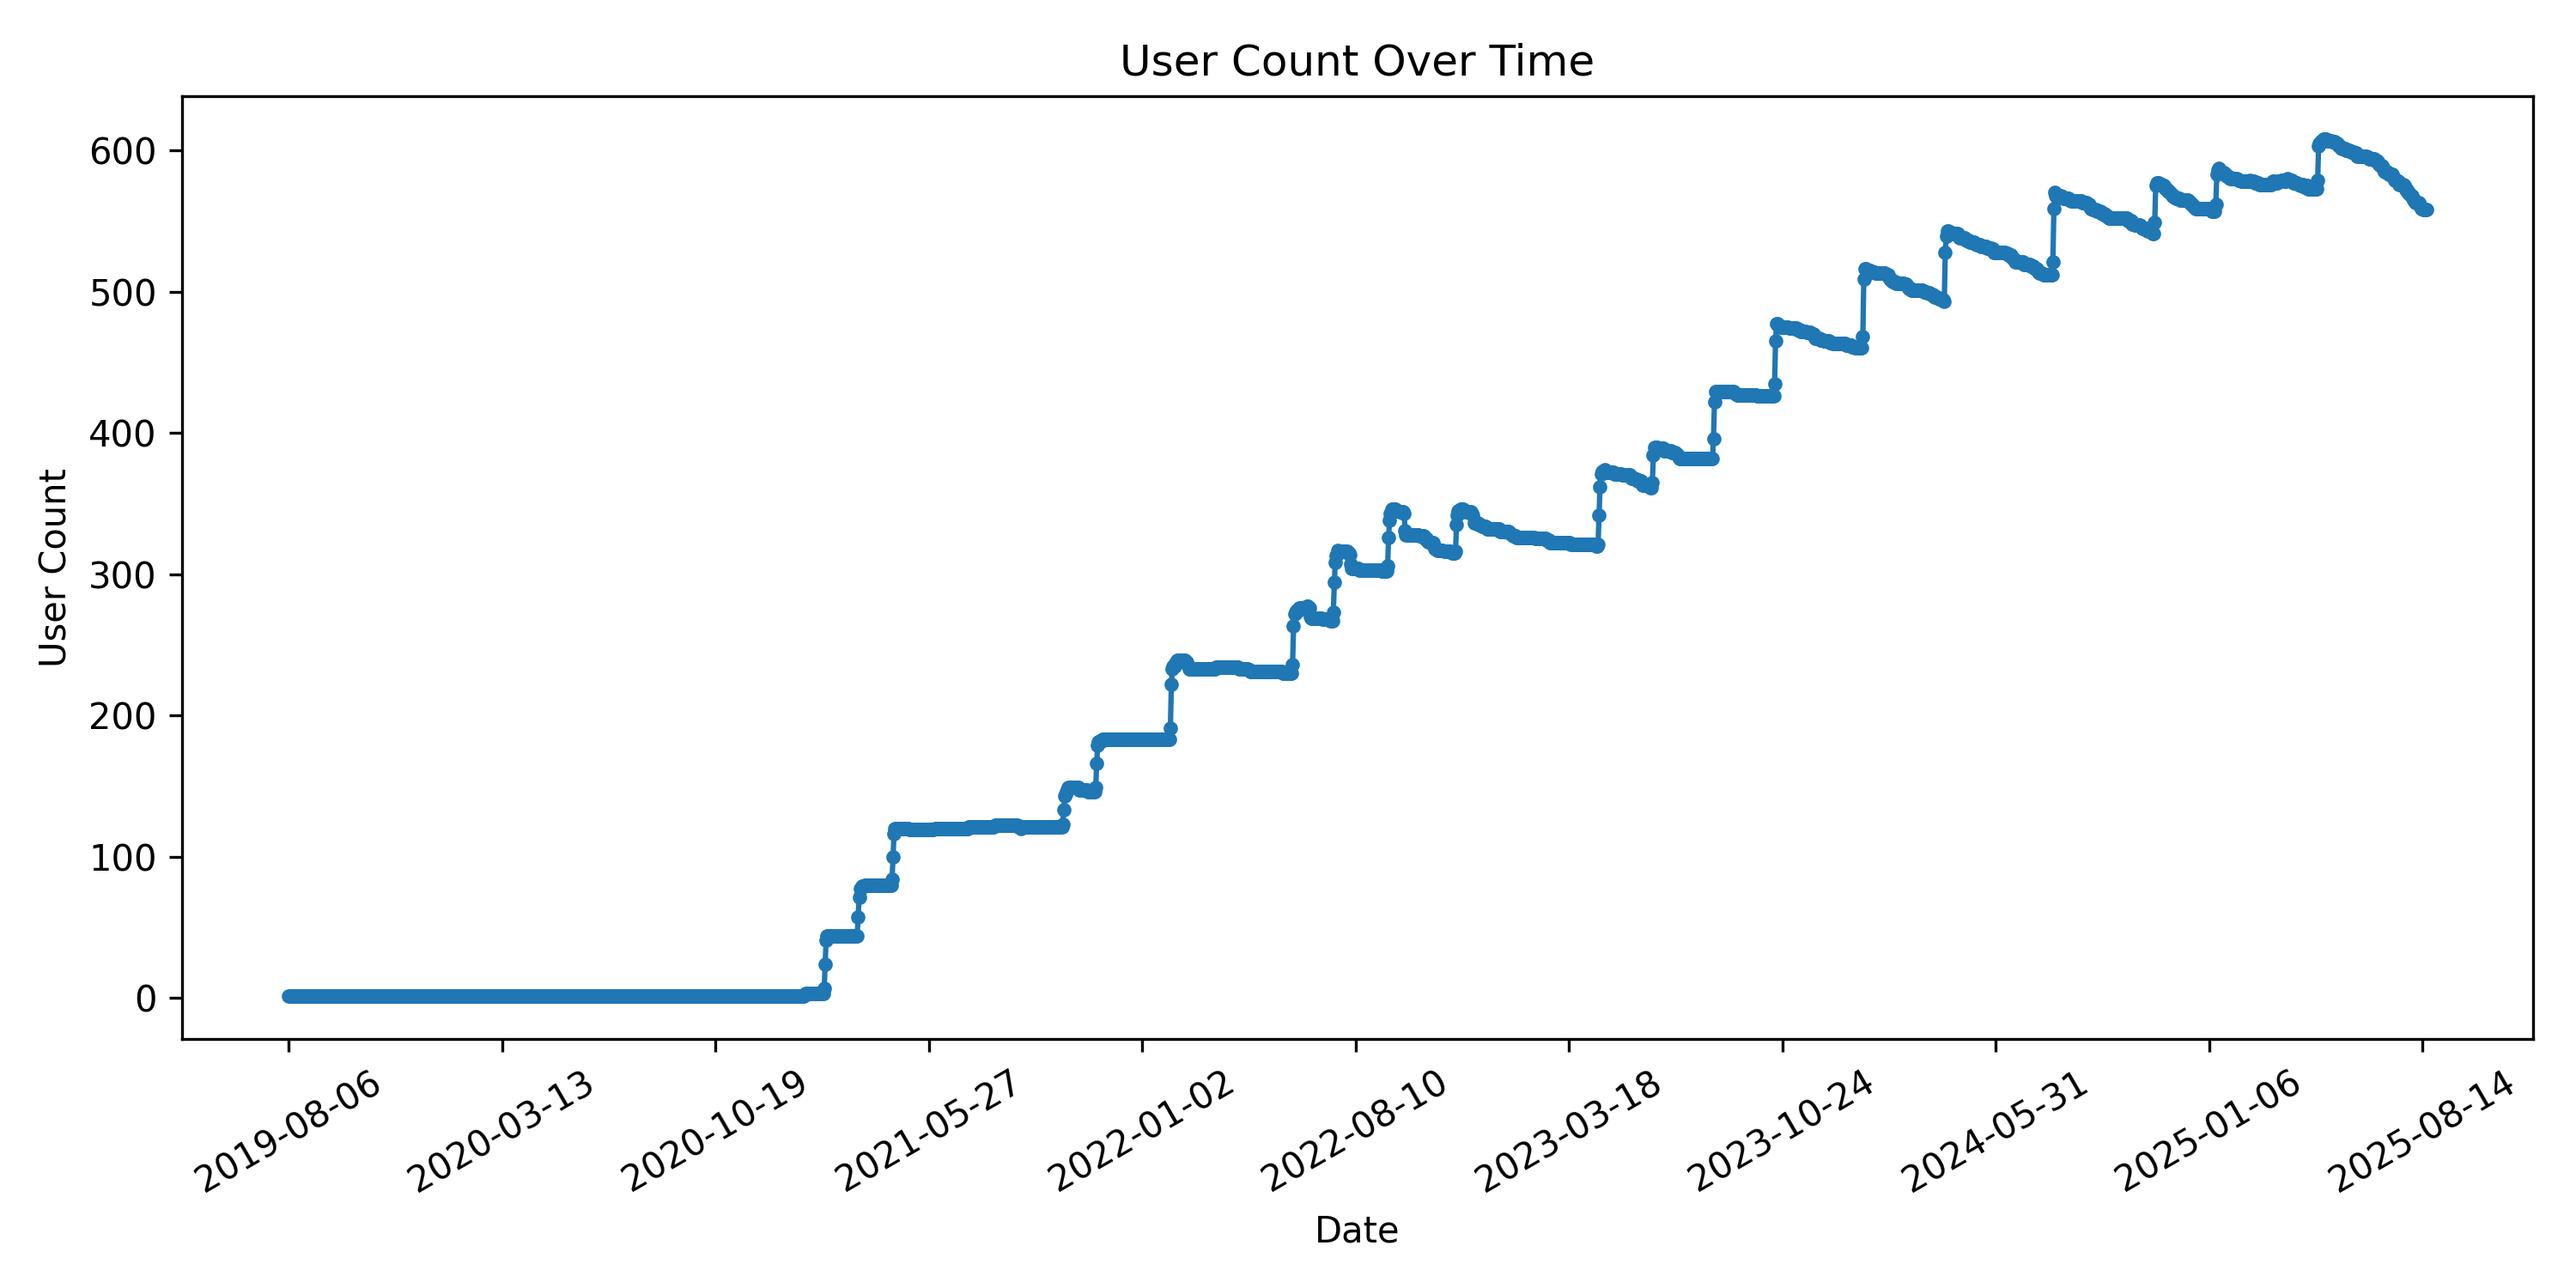
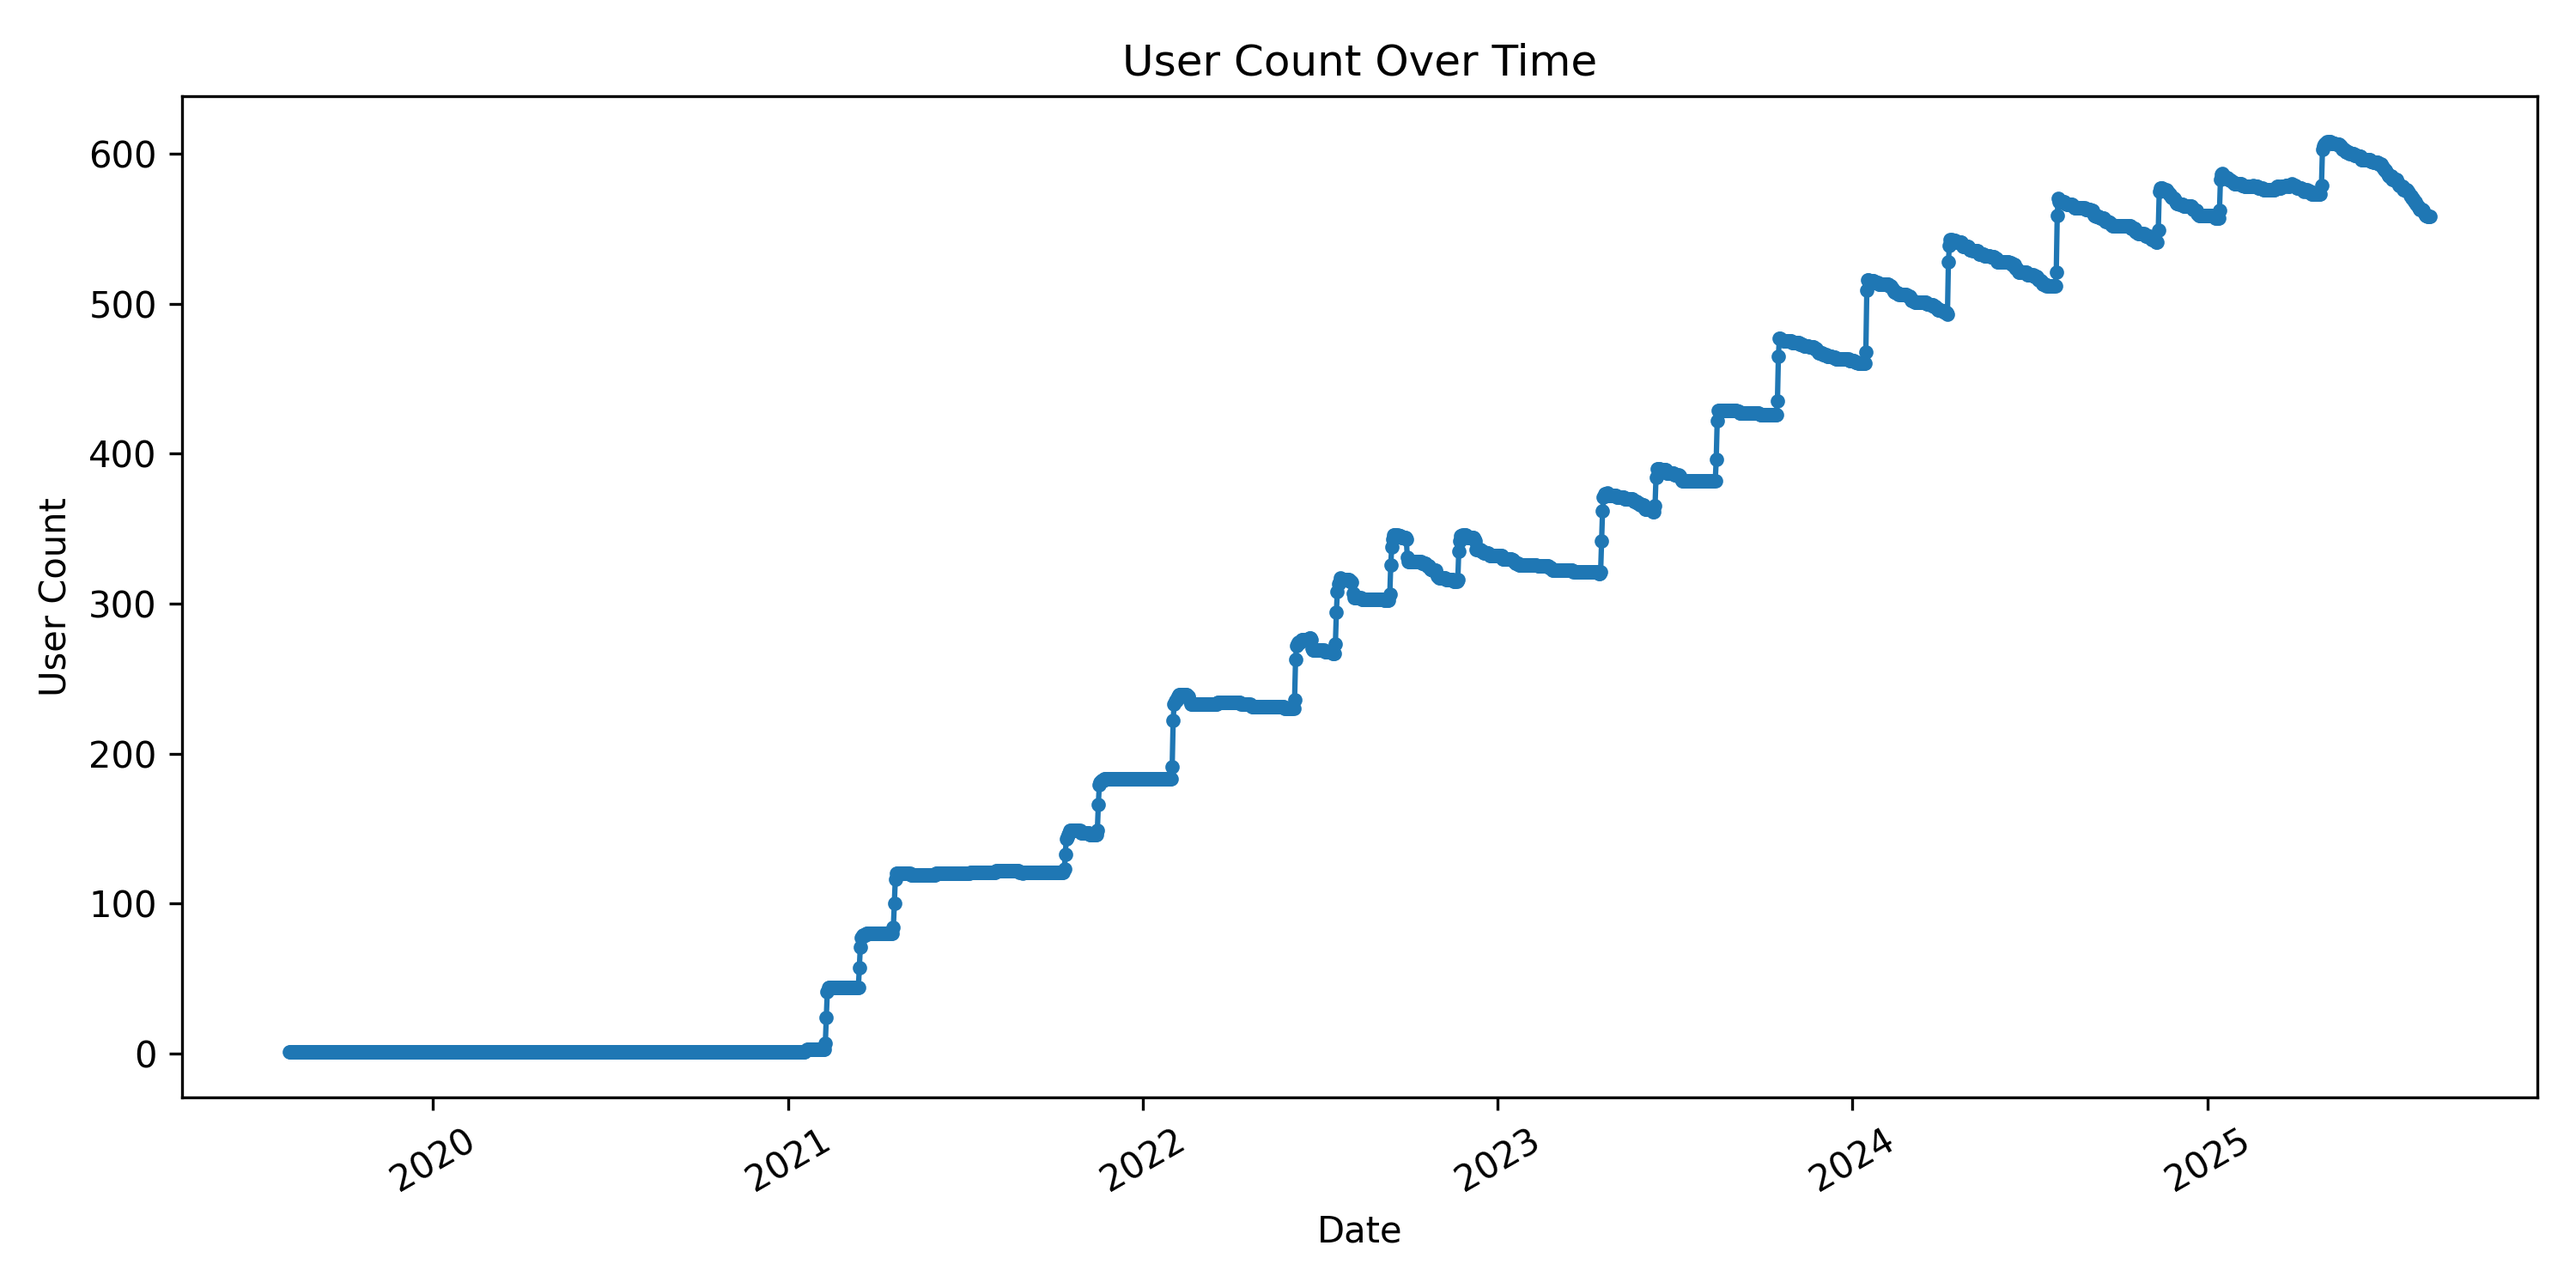
Restructure, add more plots to README.md;

diff --git a/create_analysis_and_documentation.py b/create_analysis_and_documentation.py
@@ -1,24 +1,7 @@
+from collections import defaultdict
 import json
-import matplotlib.pyplot as plt
 from datetime import datetime
-
-def basic_plot(data_list, title, x_axis, y_axis, save_name):
-    dates = [d for d, _ in data_list]
-    counts = [c for _, c in data_list]
-    if len(dates) > 1:
-        dates = dates[:-1]
-        counts = counts[:-1]
-    spots = 30
-    if len(counts) != 0:
-        spots = int(len(counts) / 10)
-    plt.figure(figsize=(10, 5))
-    plt.plot(dates, counts, marker=".")
-    plt.xticks(dates[::spots], rotation=30)
-    plt.title(title)
-    plt.xlabel(x_axis)
-    plt.ylabel(y_axis)
-    plt.tight_layout()
-    plt.savefig(f"img/{save_name}", dpi=300)
+from tools.plot import basic_plot, multiplot
 
 
 with open("data/campus.json", "r") as f:
@@ -31,7 +14,7 @@ total_active_users_per_date_sorted = sorted(
     key=lambda x: datetime.fromisoformat(x[0])
 )
 
-basic_plot(data_map=total_active_users_per_date_sorted, x_axis="Date", y_axis="User Count", title="User Count Over Time", save_name="user_over_time_count")
+basic_plot(data_list=total_active_users_per_date_sorted, x_axis="Date", y_axis="User Count", title="User Count Over Time", save_name="user_over_time_count")
 
 evals_per_day_map = data.get("evals_per_day_map", {})
 
@@ -40,7 +23,7 @@ evals_per_day_list_sorted = sorted(
     key=lambda x: datetime.fromisoformat(x[0])
 )
 
-basic_plot(data_map=evals_per_day_list_sorted, x_axis="Date", y_axis="Eval Count", title="Evals per day map", save_name="evals_per_day_count")
+basic_plot(data_list=evals_per_day_list_sorted, x_axis="Date", y_axis="Eval Count", title="Evals per day map", save_name="evals_per_day_count")
 
 
 not_active_points_map = data.get("not_active_points_map", {})
@@ -56,4 +39,44 @@ for key, value in not_active_points_map_sorted:
     not_active_points_total += value
     not_active_points_list_total.append((key, not_active_points_total))
 
-basic_plot(data_map=not_active_points_list_total, x_axis="Date", y_axis="Points", title="Points that are not active in the system", save_name="non_active_points")
+basic_plot(data_list=not_active_points_list_total, x_axis="Date", y_axis="Points", title="Points that are not active in the system", save_name="non_active_points")
+
+
+get_total_active_points = data.get("get_total_active_points", {})
+evaluation_points_date_map = data.get("evaluation_points_date_map")
+evaluation_points_date_list = sorted(
+    evaluation_points_date_map.items(),
+    key=lambda x: datetime.fromisoformat(x[0])
+)
+
+evaluation_points_date_list_precise = []
+for key, value in evaluation_points_date_list[::-1]:
+    evaluation_points_date_list_precise.append((key, get_total_active_points))
+    get_total_active_points -= value
+
+evaluation_points_date_list_precise.sort(key=lambda x: x[0])
+
+basic_plot(data_list=evaluation_points_date_list_precise, x_axis="Date", y_axis="Points per day", save_name="points_over_time", title="Evaluation Points In the System Over Time")
+
+data_lists=[
+    (evaluation_points_date_list_precise, "Total Active Points"),
+    (not_active_points_list_total, "Non Active Points"),
+]
+
+multiplot(data_lists, x_axis="Date", y_axis="Points per day", save_name="points_over_time_vs_non_active_points", title="Total vs Non Active Points")
+
+
+monthly_evals_data = defaultdict(int)
+for date_str, count in evals_per_day_map.items():
+    dt = datetime.fromisoformat(date_str)
+    key = dt.strftime("%Y-%m-01")
+    monthly_evals_data[key] += count
+
+evals_per_month_list_sorted = sorted(
+    monthly_evals_data.items(),
+    key=lambda x: datetime.strptime(x[0], "%Y-%m-%d")
+)
+
+basic_plot(data_list=evals_per_month_list_sorted, x_axis="Month", y_axis="Eval Count", title="Evals per Month", save_name="evals_per_month_count")
+
+

diff --git a/tools/plot.py b/tools/plot.py
@@ -1,0 +1,61 @@
+import matplotlib.pyplot as plt
+import matplotlib.dates as mdates
+from datetime import datetime
+
+def locator_and_formater(span):
+    if span <= 31:
+        locator = mdates.DayLocator(interval=1)
+        formatter = mdates.DateFormatter("%m-%d")
+    elif span <= 365:
+        locator = mdates.MonthLocator(interval=1)
+        formatter = mdates.DateFormatter("%Y-%m")
+    else:
+        locator = mdates.YearLocator()
+        formatter = mdates.DateFormatter("%Y")
+    return locator, formatter
+
+
+def basic_plot(data_list, title="default", x_axis="default", y_axis="default", save_name="default"):
+    dates = [datetime.fromisoformat(d) for d, _ in data_list]
+    counts = [c for _, c in data_list]
+    if len(dates) > 1:
+        dates = dates[:-1]
+        counts = counts[:-1]
+    span = (max(dates) - min(dates)).days
+    plt.figure(figsize=(10, 5))
+    plt.plot(dates, counts, marker=".")
+    ax = plt.gca()
+    locator, formatter = locator_and_formater(span=span)
+    ax.xaxis.set_major_locator(locator)
+    ax.xaxis.set_major_formatter(formatter)
+    plt.xticks(rotation=30)
+    plt.title(title)
+    plt.xlabel(x_axis)
+    plt.ylabel(y_axis)
+    plt.tight_layout()
+    plt.savefig(f"img/{save_name}.png", dpi=300)
+
+
+def multiplot(datasets: list, title="default", x_axis="default", y_axis="default", save_name="default"):
+    plt.figure(figsize=(10, 5))
+    all_dates = []
+    for data_list, label in datasets:
+        dates = [datetime.fromisoformat(d) for d, _ in data_list]
+        counts = [c for _, c in data_list]
+        if len(dates) > 1:
+            dates = dates[:-1]
+            counts = counts[:-1]
+        all_dates.extend(dates)
+        plt.plot(dates, counts, label=label, marker=".")
+    span = (max(all_dates) - min(all_dates)).days
+    locator, formatter = locator_and_formater(span=span)
+    ax = plt.gca()
+    ax.xaxis.set_major_locator(locator)
+    ax.xaxis.set_major_formatter(formatter)
+    plt.xticks(rotation=30)
+    plt.title(title)
+    plt.xlabel(x_axis)
+    plt.ylabel(y_axis)
+    plt.legend()
+    plt.tight_layout()
+    plt.savefig(f"img/{save_name}.png", dpi=300)

diff --git a/README.md b/README.md
@@ -1,9 +1,20 @@
 Repo analysis 42 evaluation point exchange over time!
 
+![Non Active Points Growth Over Time](img/points_over_time.png)
+Total Points in The 42 Heilbronn Eco System
+
+![Non Active Points Growth Over Time](img/points_over_time_vs_non_active_points.png)
+Points held by active users and points held by non active users
+
 ![Active users in given date](img/user_over_time_count.png)
 Active user is who still does projects at 42 and is not allumnied, or blackholed
-
-
+Student activity is meassured since piscine till alumation.
 
 ![Evaluations per day Graph](img/evals_per_day_count.png)
 This data includes every project starting C-Pisciene Common Core and Outter Core, but includes only people who bassed the Piscine
+
+![Evaluations per month](img/evals_per_month_count.png)
+This data includes every project starting C-Pisciene Common Core and Outter Core, but includes only people who bassed the Piscine
+
+![Non Active Points Growth Over Time](img/non_active_points.png)
+Active user is who still does projects at 42 and is not allumnied, or blackholed
